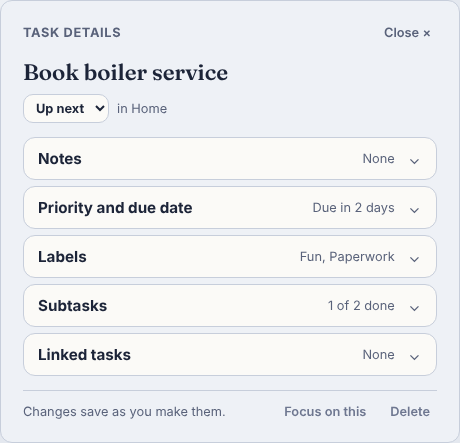
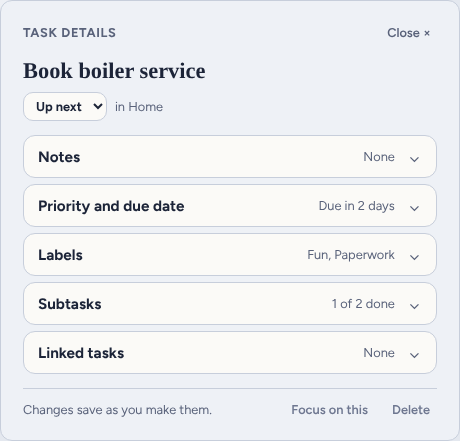
feat: today's header back on the test site, and one before-and-after picture
The name and centred jotter return at today's size and the header stays at the top; the test
site loads the app's fonts; Projects stays in the menu; every plan picture is re-taken.

Committed by AJ's agent

diff --git a/docs/plans/calm-build.html b/docs/plans/calm-build.html
@@ -289,11 +289,11 @@ const PAGE = {
         "Frame",
         "Side menu and header (#199)",
         "",
-        "The 'Jot down a stray thought' box becomes one bar across the whole top of the page and stays there while you scroll. The side menu, with the Focus Deck name, a row for each screen and Settings at the bottom, starts just below it, beside the board. Phones keep today's layout.",
+        "The header keeps today's large Focus Deck name and centred 'Jot down a stray thought' box, and now stays at the top while you scroll. The side menu becomes one wide column with a row for each screen, Projects included, and Settings at the bottom; it starts just below the header. Phones keep today's layout.",
         "Nothing from you.",
         {
-          "src": "calm-build-pics/after-jotter-1440.png",
-          "alt": "The 'Jot down a stray thought' box across the top, with the side menu beside the Board below it",
+          "src": "calm-build-pics/after-board.png",
+          "alt": "The header with the large Focus Deck name and the centred jotter, the wide side menu below it, and the Board",
           "caption": "The frame from the test site."
         }
       ],
@@ -306,11 +306,11 @@ const PAGE = {
         "Nothing from you.",
         {
           "before": {
-            "src": "calm-build-pics/now-board-1440.png",
+            "src": "calm-build-pics/before-board.png",
             "alt": "Today's Board with three columns"
           },
           "after": {
-            "src": "calm-build-pics/after-board-1440.png",
+            "src": "calm-build-pics/after-board.png",
             "alt": "The calm Board with one tab"
           },
           "caption": "Left: the Board today. Right: the approved Board."
@@ -337,7 +337,7 @@ const PAGE = {
         "Each card shows one coloured label (a chip). Its colour comes from the first item in the Card colour list that the task has.",
         "Nothing from you.",
         {
-          "src": "calm-build-pics/after-reordered-1440.png",
+          "src": "calm-build-pics/after-reordered.png",
           "alt": "Cards coloured by priority and date after reordering",
           "caption": "Cards after moving Due date and Priority up."
         }
@@ -350,7 +350,7 @@ const PAGE = {
         "Every setting on the Settings page shows its name and value and opens on a tap. A new Comfort group adds settings for movement, softer colours, card colour, how many cards show at once, and the colour of tasks past their due date.",
         "Nothing from you.",
         {
-          "src": "calm-build-pics/after-settings-closed-1440.png",
+          "src": "calm-build-pics/after-settings.png",
           "alt": "Settings as folded rows",
           "caption": "Settings with every row closed."
         }
@@ -374,6 +374,23 @@ const PAGE = {
     ]
   },
   "changes": [
+    [
+      "chg",
+      "Everything at once",
+      "One picture: today's app on the left, the build on the right.",
+      [
+        "Today's app",
+        "The app after the build"
+      ],
+      "Both sides are real screens at 1440 pixels wide with the same sample tasks. The right side is the test site, which is what the build copies into the app. The numbered list under the picture names each change.",
+      null,
+      null,
+      {
+        "src": "calm-build-pics/before-after.png",
+        "alt": "Today's Board and Settings beside the same screens after the build, with a numbered list of the changes",
+        "caption": "Left: today. Right: after the build."
+      }
+    ],
     [
       "keep",
       "Focus, Sort's three steps, task links and GitHub sync",
@@ -460,11 +477,11 @@ const PAGE = {
       ],
       {
         "before": {
-          "src": "calm-build-pics/now-board-1440.png",
+          "src": "calm-build-pics/before-board.png",
           "alt": "Today's Board"
         },
         "after": {
-          "src": "calm-build-pics/after-selected-1440.png",
+          "src": "calm-build-pics/after-task-open.png",
           "alt": "The calm Board with a task selected"
         },
         "caption": "Left: today. Right: a task selected."

diff --git a/docs/plans/calm-by-default.md b/docs/plans/calm-by-default.md
@@ -274,3 +274,22 @@ was already at the top there and the menu stays along the bottom. Pictures:
 `feedback/before-jotter-1440.png`, `feedback/after-jotter-1440.png`,
 `feedback/after-jotter-scrolled-1440.png`, `feedback/after-jotter-1920.png`,
 `feedback/after-jotter-phone.png`.
+
+### 13. Today's header back, and one true before-and-after
+
+aj (2026-10-19): the larger Focus Deck name and the centred jotter from before were better; every
+picture should show the newest design; and one picture should show everything the build changes,
+before and after, as the app would really look.
+
+- The header is today's again: the Focus Deck name at today's size (1.7rem) in the left corner and
+  the jotter centred at today's width (560px). What section 12 keeps is that the header stays at the
+  top while the page scrolls, and the side menu starts below it.
+- The test site now loads the same fonts as the app (it had been loading an older set, so its
+  pictures showed the name in the wrong typeface).
+- Projects is back in the side menu, because the build plan's suggested choice keeps the Projects
+  screen as it is; on the test site it opens a note saying so.
+- `docs/generated/calm-build/before-after.png` is the one picture: today's Board and Settings beside
+  the same screens on the test site, with a numbered list of the changes. Every picture on the build
+  plan page is now re-taken from this version (`docs/generated/calm-build/*.png`, made by `ba.mjs`,
+  `ba2.mjs` and `compose.mjs` in that folder). The pictures under `feedback/` are kept as the record
+  of earlier rounds.
